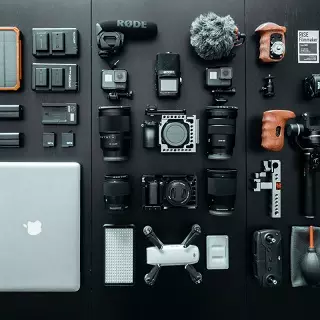
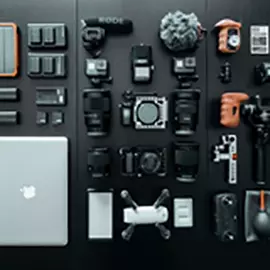
Images plus optimisées

diff --git a/index.html b/index.html
@@ -3,7 +3,7 @@
 <head>
     <meta charset="utf-8">
 	<!-- Analytics -->
-	<meta name="robots" content="all">		
+	<code><meta name="robots" content="all"></code>
 	<meta name="google-site-verification" content="EIv_ch98pyqSB8xXAdZAHdkHWZZCUUsxJUDMQJzn8_o"/>	 
     <meta name="description" content="Dans l'agence web La Panthère, vous profiterez de services intégrales avec des professionnels avec une vaste expérience, à la pointe du: positionnement SEO , conceptions graphiques élégantes, conception de sites Web sur mesure, création de boutiques e-commerce, référencement organique, évolution numérique et maintenance permanente.
 	Vous bénéficierez d'un traitement personnalisé individualisé avec une innovation constante, une performance commerciale et une pédagogie avec une communication de haute qualité pour obtenir les meilleurs résultats.">
